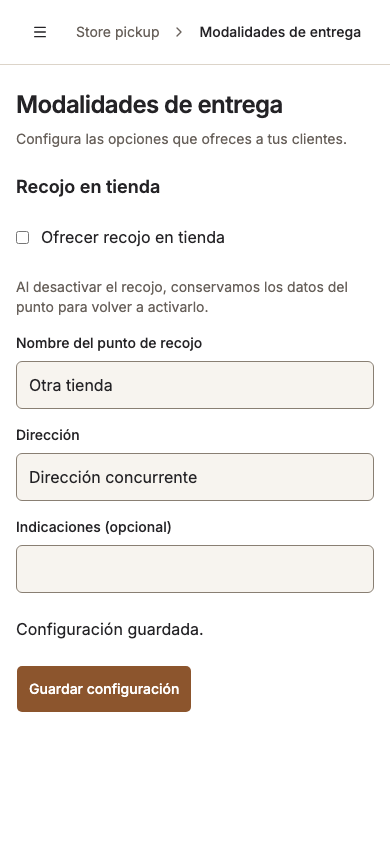
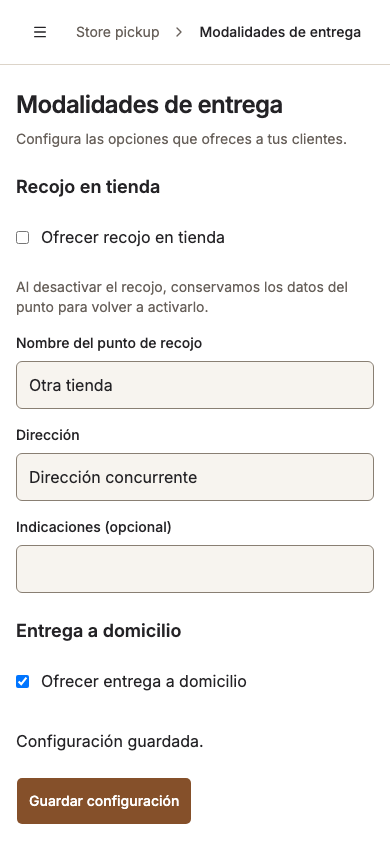
Configure home delivery availability on web and mobile

diff --git a/apps/core/app/locales.ts b/apps/core/app/locales.ts
@@ -19,7 +19,7 @@ const es = {
     greeting: "Hola, {{name}}", ready: "Tu espacio de trabajo está listo.",
   },
   deliverySettings: {
-    title: "Modalidades de entrega", description: "Configura las opciones que ofreces a tus clientes.", store: "Recojo en tienda", enabled: "Ofrecer recojo en tienda", storeHint: "Al desactivar el recojo, conservamos los datos del punto para volver a activarlo.", name: "Nombre del punto de recojo", address: "Dirección", instructions: "Indicaciones (opcional)", save: "Guardar configuración", saving: "Guardando…", saved: "Configuración guardada.", reload: "Recargar configuración", invalid: "Completa el nombre y la dirección del punto de recojo.", conflict: "Otra persona cambió la configuración. Recarga para revisar los cambios antes de guardar.", saveError: "No se pudo guardar. Conservamos tus cambios para que puedas reintentar.", loadError: "No se pudo cargar la configuración",
+    title: "Modalidades de entrega", description: "Configura las opciones que ofreces a tus clientes.", home: "Entrega a domicilio", homeEnabled: "Ofrecer entrega a domicilio", store: "Recojo en tienda", enabled: "Ofrecer recojo en tienda", storeHint: "Al desactivar el recojo, conservamos los datos del punto para volver a activarlo.", name: "Nombre del punto de recojo", address: "Dirección", instructions: "Indicaciones (opcional)", save: "Guardar configuración", saving: "Guardando…", saved: "Configuración guardada.", reload: "Recargar configuración", invalid: "Completa el nombre y la dirección del punto de recojo.", conflict: "Otra persona cambió la configuración. Recarga para revisar los cambios antes de guardar.", saveError: "No se pudo guardar. Conservamos tus cambios para que puedas reintentar.", loadError: "No se pudo cargar la configuración",
   },
   orderDelivery: {
     cost: "Costo de entrega: {{amount}}", assign: "Asignar entrega", replace: "Reemplazar entrega", recipientName: "Nombre del destinatario", recipientPhone: "Teléfono del destinatario", identity: "Documento de identidad (opcional)", noDocument: "Sin documento", document: "Número de documento", charge: "Cobrar la entrega al cliente", priceHint: "El costo se calcula al guardar. Si no está disponible, conservamos la entrega actual.", save: "Guardar entrega", saved: "Entrega guardada.", recordedBy: "Registrada por", buyer: "Comprador", configure: "Configurar modalidades de entrega", invalid: "Revisa los datos del destinatario.", disabled: "El recojo en tienda está desactivado. Actívalo en la configuración para asignarlo.", unavailable: "No se pudo confirmar la disponibilidad y el costo de la entrega. Inténtalo de nuevo.", locked: "La entrega no se puede cambiar después de despachar, entregar o cancelar la orden.", stockError: "No hay stock suficiente. Conservamos la entrega anterior.", saveError: "No se pudo guardar la entrega. Conservamos tus datos para reintentar.",
@@ -81,7 +81,7 @@ const pt = {
     greeting: "Olá, {{name}}", ready: "Seu espaço de trabalho está pronto.",
   },
   deliverySettings: {
-    title: "Modalidades de entrega", description: "Configure as opções que você oferece aos seus clientes.", store: "Retirada na loja", enabled: "Oferecer retirada na loja", storeHint: "Ao desativar a retirada, mantemos os dados do ponto para ativá-lo novamente.", name: "Nome do ponto de retirada", address: "Endereço", instructions: "Instruções (opcional)", save: "Salvar configuração", saving: "Salvando…", saved: "Configuração salva.", reload: "Recarregar configuração", invalid: "Preencha o nome e o endereço do ponto de retirada.", conflict: "Outra pessoa alterou a configuração. Recarregue para revisar as alterações antes de salvar.", saveError: "Não foi possível salvar. Mantemos suas alterações para tentar novamente.", loadError: "Não foi possível carregar a configuração",
+    title: "Modalidades de entrega", description: "Configure as opções que você oferece aos seus clientes.", home: "Entrega em domicílio", homeEnabled: "Oferecer entrega em domicílio", store: "Retirada na loja", enabled: "Oferecer retirada na loja", storeHint: "Ao desativar a retirada, mantemos os dados do ponto para ativá-lo novamente.", name: "Nome do ponto de retirada", address: "Endereço", instructions: "Instruções (opcional)", save: "Salvar configuração", saving: "Salvando…", saved: "Configuração salva.", reload: "Recarregar configuração", invalid: "Preencha o nome e o endereço do ponto de retirada.", conflict: "Outra pessoa alterou a configuração. Recarregue para revisar as alterações antes de salvar.", saveError: "Não foi possível salvar. Mantemos suas alterações para tentar novamente.", loadError: "Não foi possível carregar a configuração",
   },
   orderDelivery: {
     cost: "Custo da entrega: {{amount}}", assign: "Definir entrega", replace: "Substituir entrega", recipientName: "Nome do destinatário", recipientPhone: "Telefone do destinatário", identity: "Documento de identidade (opcional)", noDocument: "Sem documento", document: "Número do documento", charge: "Cobrar a entrega do cliente", priceHint: "O custo é calculado ao salvar. Se não estiver disponível, mantemos a entrega atual.", save: "Salvar entrega", saved: "Entrega salva.", recordedBy: "Registrada por", buyer: "Comprador", configure: "Configurar modalidades de entrega", invalid: "Revise os dados do destinatário.", disabled: "A retirada na loja está desativada. Ative-a na configuração para defini-la.", unavailable: "Não foi possível confirmar a disponibilidade e o custo da entrega. Tente novamente.", locked: "A entrega não pode ser alterada depois de despachar, entregar ou cancelar o pedido.", stockError: "Não há estoque suficiente. Mantemos a entrega anterior.", saveError: "Não foi possível salvar a entrega. Mantemos seus dados para tentar novamente.",

diff --git a/apps/core/tests/e2e/delivery-settings.spec.ts b/apps/core/tests/e2e/delivery-settings.spec.ts
@@ -13,6 +13,8 @@ test("seller configures store pickup, preserves a conflicting draft and explicit
     await page.getByRole("complementary").getByRole("link", { name: "Modalidades de entrega" }).click();
     await browserExpect(page.getByLabel("Ofrecer recojo en tienda")).not.toBeChecked();
     expect(await withTenantIsolation(companyId, async () => await prisma.companyDeliverySettings.count())).toBe(0);
+    await browserExpect(page.getByLabel("Ofrecer entrega a domicilio")).not.toBeChecked();
+    await page.getByLabel("Ofrecer entrega a domicilio").check();
     await page.getByLabel("Ofrecer recojo en tienda").check();
     await page.getByLabel("Nombre del punto de recojo").fill("Tienda principal");
     await page.getByLabel("Dirección", { exact: true }).fill("Av. Lima 123");
@@ -20,22 +22,31 @@ test("seller configures store pickup, preserves a conflicting draft and explicit
     await page.getByRole("button", { name: "Guardar configuración" }).click();
     await browserExpect(page.getByRole("status")).toHaveText("Configuración guardada.");
     const saved = await page.request.get("/api/delivery-settings");
-    expect(await saved.json()).toMatchObject({ version: 1, home: { enabled: false }, store: { enabled: true, pickupPoint: { address: "Av. Lima 123" } } });
+    expect(await saved.json()).toMatchObject({ version: 1, home: { enabled: true }, store: { enabled: true, pickupPoint: { address: "Av. Lima 123" } } });
     await page.getByLabel("Dirección", { exact: true }).fill("Mi borrador");
     const concurrent = await page.request.put("/api/delivery-settings", { data: { expectedVersion: 1,
-      home: { enabled: true }, store: { enabled: true, pickupPoint: { name: "Otra tienda", address: "Dirección concurrente", instructions: null } } } });
+      home: { enabled: false }, store: { enabled: true, pickupPoint: { name: "Otra tienda", address: "Dirección concurrente", instructions: null } } } });
     expect(concurrent.ok()).toBe(true);
     await page.getByRole("button", { name: "Guardar configuración" }).click();
     await browserExpect(page.getByRole("alert")).toContainText("Otra persona cambió");
     await browserExpect(page.getByLabel("Dirección", { exact: true })).toHaveValue("Mi borrador");
+    await browserExpect(page.getByLabel("Ofrecer entrega a domicilio")).toBeChecked();
     await browserExpect(page.getByRole("button", { name: "Guardar configuración" })).toBeDisabled();
     await page.getByRole("link", { name: "Recargar configuración" }).click();
     await browserExpect(page.getByLabel("Dirección", { exact: true })).toHaveValue("Dirección concurrente");
+    await browserExpect(page.getByLabel("Ofrecer entrega a domicilio")).not.toBeChecked();
     await page.getByLabel("Ofrecer recojo en tienda").uncheck();
     await page.getByRole("button", { name: "Guardar configuración" }).click();
     await browserExpect(page.getByRole("status")).toHaveText("Configuración guardada.");
     expect(await (await page.request.get("/api/delivery-settings")).json()).toMatchObject({ version: 3,
-      home: { enabled: true }, store: { enabled: false, pickupPoint: { address: "Dirección concurrente" } } });
+      home: { enabled: false }, store: { enabled: false, pickupPoint: { address: "Dirección concurrente" } } });
+    await page.getByLabel("Ofrecer entrega a domicilio").check();
+    const homeSaved = page.waitForResponse(response => response.request().method() === "POST" && new URL(response.url()).pathname.includes("/settings/delivery"));
+    await page.getByRole("button", { name: "Guardar configuración" }).click();
+    await homeSaved;
+    await browserExpect(page.getByRole("button", { name: "Guardar configuración" })).toBeEnabled();
+    await browserExpect(page.getByRole("status")).toHaveText("Configuración guardada.");
+    expect(await (await page.request.get("/api/delivery-settings")).json()).toMatchObject({ version: 4, home: { enabled: true }, store: { enabled: false, pickupPoint: { address: "Dirección concurrente" } } });
     await mkdir("../../.impeccable/review", { recursive: true });
     await page.screenshot({ path: "../../.impeccable/review/delivery-settings-desktop.png", fullPage: true });
     await page.setViewportSize({ width: 390, height: 844 });
@@ -43,6 +54,7 @@ test("seller configures store pickup, preserves a conflicting draft and explicit
     await page.screenshot({ path: "../../.impeccable/review/delivery-settings-mobile.png", fullPage: true });
     await page.goto("/pt-BR/settings/delivery");
     await browserExpect(page.getByLabel("Oferecer retirada na loja")).not.toBeChecked();
+    await browserExpect(page.getByLabel("Oferecer entrega em domicílio")).toBeChecked();
     await browserExpect(page.getByLabel("Endereço", { exact: true })).toHaveValue("Dirección concurrente");
   } finally {
     if (companyId) await withTenantIsolation(companyId, async () => {

diff --git a/apps/mobile/src/features/delivery-settings/presentation/translations.ts b/apps/mobile/src/features/delivery-settings/presentation/translations.ts
@@ -1,8 +1,8 @@
 export const translations = {
   es: {
-    deliverySettingsNav: "Configuración", deliverySettingsTitle: "Modalidades de entrega", deliverySettingsDescription: "Configura las opciones que ofreces a tus clientes.", pickupStoreTitle: "Recojo en tienda", pickupEnabled: "Ofrecer recojo en tienda", pickupHint: "Al desactivar el recojo, conservamos los datos del punto para volver a activarlo.", pickupName: "Nombre del punto de recojo", pickupAddress: "Dirección", pickupInstructions: "Indicaciones (opcional)", saveDeliverySettings: "Guardar configuración", deliverySettingsSaved: "Configuración guardada.", reloadDeliverySettings: "Recargar configuración", deliverySettingsInvalid: "Completa el nombre y la dirección del punto de recojo.", deliverySettingsConflict: "Otra persona cambió la configuración. Recarga para revisar los cambios antes de guardar.", deliverySettingsSaveError: "No se pudo guardar. Conservamos tus cambios para reintentar.", deliverySettingsLoadError: "No se pudo cargar la configuración", loadingDeliverySettings: "Cargando configuración…",
+    deliverySettingsNav: "Configuración", deliverySettingsTitle: "Modalidades de entrega", deliverySettingsDescription: "Configura las opciones que ofreces a tus clientes.", homeDeliveryTitle: "Entrega a domicilio", homeDeliveryEnabled: "Ofrecer entrega a domicilio", pickupStoreTitle: "Recojo en tienda", pickupEnabled: "Ofrecer recojo en tienda", pickupHint: "Al desactivar el recojo, conservamos los datos del punto para volver a activarlo.", pickupName: "Nombre del punto de recojo", pickupAddress: "Dirección", pickupInstructions: "Indicaciones (opcional)", saveDeliverySettings: "Guardar configuración", deliverySettingsSaved: "Configuración guardada.", reloadDeliverySettings: "Recargar configuración", deliverySettingsInvalid: "Completa el nombre y la dirección del punto de recojo.", deliverySettingsConflict: "Otra persona cambió la configuración. Recarga para revisar los cambios antes de guardar.", deliverySettingsSaveError: "No se pudo guardar. Conservamos tus cambios para reintentar.", deliverySettingsLoadError: "No se pudo cargar la configuración", loadingDeliverySettings: "Cargando configuración…",
   },
   'pt-BR': {
-    deliverySettingsNav: "Configuração", deliverySettingsTitle: "Modalidades de entrega", deliverySettingsDescription: "Configure as opções que você oferece aos seus clientes.", pickupStoreTitle: "Retirada na loja", pickupEnabled: "Oferecer retirada na loja", pickupHint: "Ao desativar a retirada, mantemos os dados do ponto para ativá-lo novamente.", pickupName: "Nome do ponto de retirada", pickupAddress: "Endereço", pickupInstructions: "Instruções (opcional)", saveDeliverySettings: "Salvar configuração", deliverySettingsSaved: "Configuração salva.", reloadDeliverySettings: "Recarregar configuração", deliverySettingsInvalid: "Preencha o nome e o endereço do ponto de retirada.", deliverySettingsConflict: "Outra pessoa alterou a configuração. Recarregue para revisar as alterações antes de salvar.", deliverySettingsSaveError: "Não foi possível salvar. Mantemos suas alterações para tentar novamente.", deliverySettingsLoadError: "Não foi possível carregar a configuração", loadingDeliverySettings: "Carregando configuração…",
+    deliverySettingsNav: "Configuração", deliverySettingsTitle: "Modalidades de entrega", deliverySettingsDescription: "Configure as opções que você oferece aos seus clientes.", homeDeliveryTitle: "Entrega em domicílio", homeDeliveryEnabled: "Oferecer entrega em domicílio", pickupStoreTitle: "Retirada na loja", pickupEnabled: "Oferecer retirada na loja", pickupHint: "Ao desativar a retirada, mantemos os dados do ponto para ativá-lo novamente.", pickupName: "Nome do ponto de retirada", pickupAddress: "Endereço", pickupInstructions: "Instruções (opcional)", saveDeliverySettings: "Salvar configuração", deliverySettingsSaved: "Configuração salva.", reloadDeliverySettings: "Recarregar configuração", deliverySettingsInvalid: "Preencha o nome e o endereço do ponto de retirada.", deliverySettingsConflict: "Outra pessoa alterou a configuração. Recarregue para revisar as alterações antes de salvar.", deliverySettingsSaveError: "Não foi possível salvar. Mantemos suas alterações para tentar novamente.", deliverySettingsLoadError: "Não foi possível carregar a configuração", loadingDeliverySettings: "Carregando configuração…",
   },
 } as const;

diff --git a/apps/mobile/src/features/delivery-settings/presentation/delivery-settings-screen.test.tsx b/apps/mobile/src/features/delivery-settings/presentation/delivery-settings-screen.test.tsx
@@ -72,3 +72,22 @@ test("a failed save keeps edited data and a pending save prevents duplicate subm
   expect(screen.getByLabelText("Nombre del punto de recojo").props.value).toBe("Draft store");
   expect(screen.queryByText("Configuración guardada.")).toBeNull();
 });
+
+
+test("home can be enabled alone and store changes preserve its enablement", async () => {
+  save.mockResolvedValueOnce(ok({ version: 1, home: { enabled: true }, store: { enabled: false, pickupPoint: null } }))
+    .mockResolvedValueOnce(ok({ version: 2, home: { enabled: true }, store: { enabled: true, pickupPoint: point } }));
+  const screen = render(<DeliverySettingsScreen />);
+  await screen.findByText("Entrega a domicilio");
+  expect(screen.getByLabelText("Ofrecer entrega a domicilio").props.value).toBe(false);
+  fireEvent(screen.getByLabelText("Ofrecer entrega a domicilio"), "valueChange", true);
+  fireEvent.press(screen.getByText("Guardar configuración"));
+  await screen.findByText("Configuración guardada.");
+  expect(save).toHaveBeenLastCalledWith({ expectedVersion: 0, homeEnabled: true, storeEnabled: false, pickupName: "", pickupAddress: "", pickupInstructions: "" });
+  fireEvent(screen.getByLabelText("Ofrecer recojo en tienda"), "valueChange", true);
+  fireEvent.changeText(screen.getByLabelText("Nombre del punto de recojo"), "Store");
+  fireEvent.changeText(screen.getByLabelText("Dirección"), "Original");
+  fireEvent.press(screen.getByText("Guardar configuración"));
+  await waitFor(() => expect(save).toHaveBeenCalledTimes(2));
+  expect(save).toHaveBeenLastCalledWith(expect.objectContaining({ expectedVersion: 1, homeEnabled: true, storeEnabled: true }));
+});

diff --git a/apps/mobile/src/features/delivery-settings/presentation/delivery-settings-screen.tsx b/apps/mobile/src/features/delivery-settings/presentation/delivery-settings-screen.tsx
@@ -77,6 +77,11 @@ export default function DeliverySettingsScreen() {
           <Field disabled={busy}><FieldLabel>{t("pickupAddress")}</FieldLabel><Input value={draft.pickupAddress} onChangeText={value => setText("pickupAddress", value)} maxLength={500} multiline accessibilityLabel={t("pickupAddress")} /></Field>
           <Field disabled={busy}><FieldLabel>{t("pickupInstructions")}</FieldLabel><Input value={draft.pickupInstructions} onChangeText={value => setText("pickupInstructions", value)} maxLength={1000} multiline accessibilityLabel={t("pickupInstructions")} /></Field></FieldGroup>
       </View>
+      <View style={styles.section}><ThemedText type="subtitle" accessibilityRole="header">{t("homeDeliveryTitle")}</ThemedText>
+        <View style={styles.toggle}><ThemedText style={styles.label}>{t("homeDeliveryEnabled")}</ThemedText><Switch accessibilityLabel={t("homeDeliveryEnabled")}
+          value={draft.homeEnabled} disabled={busy} hitSlop={10} trackColor={{ true: theme.primary }}
+          onValueChange={value => { setDraft({ ...draft, homeEnabled: value }); setSaved(false); }} /></View>
+      </View>
       {error ? <ThemedText accessibilityRole="alert" style={{ color: theme.error }}>{t(error)}</ThemedText> : null}
       {saved ? <ThemedText accessibilityLiveRegion="polite">{t("deliverySettingsSaved")}</ThemedText> : null}
       <Button onPress={() => void save()} disabled={busy || conflict} loading={busy}>{t("saveDeliverySettings")}</Button>

diff --git a/apps/core/app/routes/delivery-settings.tsx b/apps/core/app/routes/delivery-settings.tsx
@@ -75,6 +75,10 @@ function SettingsForm({ settings }: { settings: DeliverySettingsResponse }) {
       <Field><FieldLabel htmlFor="pickup-address">{t("deliverySettings.address")}</FieldLabel><Input id="pickup-address" value={address} maxLength={500} required={configured} onChange={event => setAddress(event.target.value)} /></Field>
       <Field><FieldLabel htmlFor="pickup-instructions">{t("deliverySettings.instructions")}</FieldLabel><Input id="pickup-instructions" value={instructions} maxLength={1000} onChange={event => setInstructions(event.target.value)} /></Field>
     </fieldset>
+    <fieldset className="flex min-w-0 flex-col gap-4" disabled={pending}>
+      <legend className="mb-3 text-lg font-semibold">{t("deliverySettings.home")}</legend>
+      <label className="flex min-h-touch items-center gap-3"><input type="checkbox" checked={homeEnabled} onChange={event => setHomeEnabled(event.target.checked)} />{t("deliverySettings.homeEnabled")}</label>
+    </fieldset>
     {result?.error && <p role="alert" className="text-sm text-destructive">{t(`deliverySettings.${result.error}`)}</p>}
     {result?.saved && <p role="status">{t("deliverySettings.saved")}</p>}
     <div className="flex flex-wrap gap-3"><Button type="submit" disabled={pending || Boolean(conflict)}>{t(pending ? "deliverySettings.saving" : "deliverySettings.save")}</Button>

diff --git a/.impeccable/surfaces/apps-mobile-src-features-delivery-settings-presentation-delivery-settings-screen-tsx.md b/.impeccable/surfaces/apps-mobile-src-features-delivery-settings-presentation-delivery-settings-screen-tsx.md
@@ -7,10 +7,10 @@ related_targets: []
 
 # Native delivery settings
 
-Operate, seller-facing store pickup only; inherits PRODUCT.md’s platform conventions and DESIGN.md’s compact caramel hierarchy. Native Switch, labeled fields, scroll/keyboard accommodation, and safe areas adapt the shared task. Spanish and Brazilian Portuguese are supported.
+Operate, seller-facing independent home/store enablement; inherits PRODUCT.md’s platform conventions and DESIGN.md’s compact caramel hierarchy. Native Switch sections, labeled pickup fields, scroll/keyboard accommodation, and safe areas adapt the shared task. Spanish and Brazilian Portuguese are supported.
 
-Initial settings are disabled/null/version 0. Complete pickup values are trimmed; disabling retains the point. Optimistic saves use expectedVersion. Conflicts preserve fields and block saving until explicit reload; successful confirmation replaces fields/version. Tests cover retained points, conflict/language changes, validation, and duplicate submission prevention.
+Both methods start disabled, pickup point null, version 0. Complete pickup values are trimmed; disabling retains the point. Complete settings saves use expectedVersion. Conflicts preserve both flags and fields and block saving until explicit reload; successful confirmation replaces fields/version. Tests cover retained points, conflict/language changes, validation, and duplicate submission prevention.
 
 The mobile app’s web tab bar stays in normal flow, wraps its fourth tab, and uses minimum 48-unit controls.
 
-Reviewer: ship at fixes scope; web wrapping, 48-unit targets, and translated error keys resolved. Lint, typecheck, and full mobile tests passed. No native captures: adb devices is empty and Android emulator SDK/Xcode simulator are unavailable. Native visual review and device E2E remain pending; unit tests provide behavioral evidence only.
+Reviewer `home_settings_review`: ship for native code/accessibility/i18n scope. Lint/typecheck, core unit, mobile Jest, and focused web E2E passed. No native captures: adb devices is empty and Android emulator SDK/Xcode simulator are unavailable. Native visual review and device E2E remain pending; unit tests provide behavioral evidence only.

diff --git a/.impeccable/surfaces/apps-core-app-routes-delivery-settings-tsx.md b/.impeccable/surfaces/apps-core-app-routes-delivery-settings-tsx.md
@@ -7,10 +7,10 @@ related_targets: ["apps/core/app/routes/private-layout.tsx"]
 
 # Delivery settings
 
-Operate surface, web only. Inherits the compact caramel system in DESIGN.md. Sellers configure one store pickup point; initial state is disabled, null point, version 0. Disabling retains the configured point. A supplied point requires complete name/address with trimmed values; optional instructions normalize to null when blank.
+Operate surface, web only. Inherits the compact caramel system in DESIGN.md. Sellers independently enable home delivery and store pickup via checkboxes; both start disabled, pickup point null, version 0. Disabling retains the configured point. A supplied point requires complete name/address with trimmed values; optional instructions normalize to null when blank.
 
-Saving uses optimistic version checks. A conflict retains the draft and disables saving until explicit full reload. Successful confirmation resets fields and version to the saved response. Pending controls are disabled; feedback uses alert/status roles.
+Saving sends complete settings with optimistic version checks. A conflict retains both flags and pickup draft and disables saving until explicit full reload. Successful confirmation resets fields and version to the saved response. Pending controls are disabled; feedback uses alert/status roles.
 
-Navigation exposes the settings entry with aria-current and a visible Check for the active page. Reviewer’s sole fix was applied; final desktop/mobile recaptures confirm the fix; reviewer scored it resolved (ship).
+Navigation exposes the settings entry with aria-current and a visible Check for the active page. Reviewer `home_settings_review`: ship; updated 1280/390 captures show readable scope. Lint/typecheck, core unit, mobile Jest, and focused web E2E passed.
 
 Evidence: `.impeccable/review/delivery-settings-desktop.png`, `.impeccable/review/delivery-settings-mobile.png`; E2E: `apps/core/tests/e2e/delivery-settings.spec.ts`.
